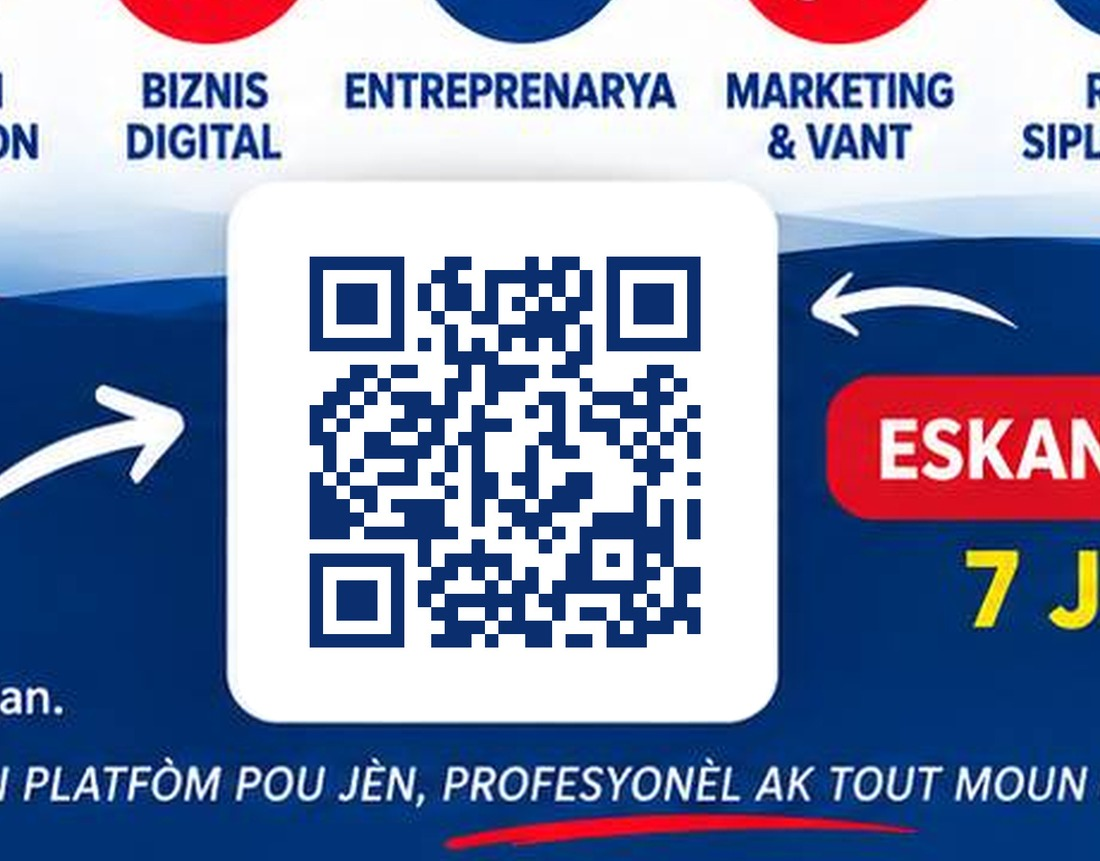
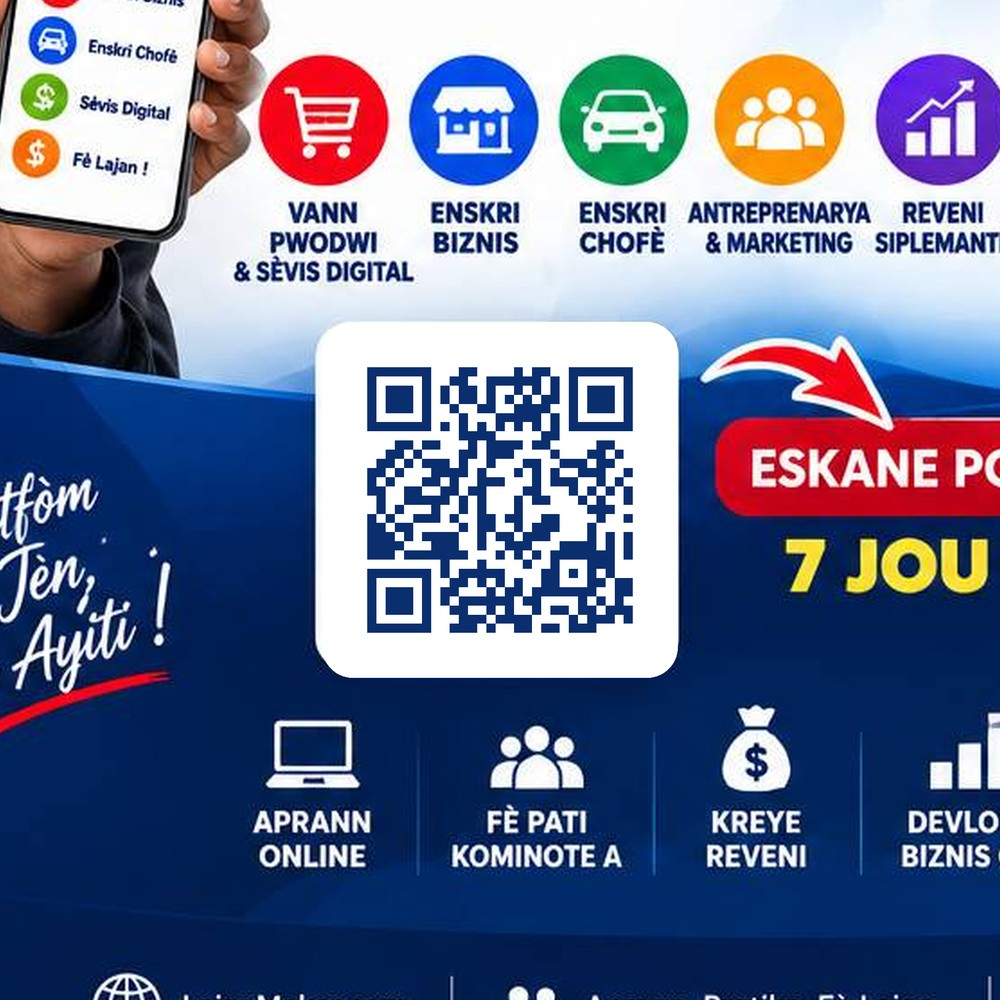
Poster: the corrected artwork (the one with the phones), plus /afich.jpg
He sent the wrong file first. This is the 1536x1024 3:2 version. Its QR is
decorative too - confirmed it fails to decode at 1x/2x/4x/8x with both pyzbar
and OpenCV - so the real one goes in the same panel, measured at (569,580)-
(770,778) filling 0.85.

Also served at the site root as /afich.jpg: a short address he can dictate to
the print shop over the phone, and one he can long-press to save. He reported
he could not download from the dl page and the shop shuts within the hour.

Removes the superseded 40x20 file so the wrong artwork cannot be printed.

diff --git a/dl/lajanmaker-poster/index.html b/dl/lajanmaker-poster/index.html
@@ -76,8 +76,8 @@ footer{text-align:center;color:var(--text-muted);font-size:.82rem;padding-top:14
     <p>The QR code on your original artwork was decorative — it does not scan.
        This one does. It has been tested with two different scanners.</p>
     <img src="preview-full.jpg" alt="The finished poster">
-    <a class="btn btn-main" href="LajanMaker-Academy-poster-40x20in-150dpi.jpg">Download the poster</a>
-    <p class="meta">JPEG &middot; 6000 &times; 3000 pixels &middot; 150 DPI &middot; 3.2 MB</p>
+    <a class="btn btn-main" href="LajanMaker-Academy-poster-40x26in-150dpi.jpg">Download the poster</a>
+    <p class="meta">JPEG &middot; 6000 &times; 4000 pixels &middot; 150 DPI &middot; 3.4 MB</p>
   </div>
 
   <div class="card">
@@ -86,27 +86,27 @@ footer{text-align:center;color:var(--text-muted);font-size:.82rem;padding-top:14
        &ldquo;ESKANE POU K&Ograve;MANSE&rdquo; still point at it.</p>
     <img src="preview-qr.jpg" alt="Close-up of the new QR code">
     <table>
-      <tr><td>Printed size</td><td>5.1 inches square</td></tr>
+      <tr><td>Printed size</td><td>5.2 inches square</td></tr>
       <tr><td>Scans from</td><td>about 4 feet away</td></tr>
       <tr><td>It opens</td><td>LajanMaker.com</td></tr>
     </table>
   </div>
 
   <div class="warn">
-    <b>One thing about the size you asked for</b>
-    <p>You asked for 30&Prime; &times; 40&Prime;. That is a tall shape, and this
-       artwork is a wide one — twice as wide as it is tall. It cannot fill a
-       30&times;40 sheet without stretching the faces or cutting off the sides.</p>
-    <p style="margin-top:8px">So this file is <b>40&Prime; wide &times; 20&Prime; tall</b>,
-       which is the artwork's own shape at the same 40 inch length. If you want a
-       tall 30&times;40 for the wall, tell me and I will lay it out properly —
-       no charge.</p>
+    <b>About the 30&Prime; &times; 40&Prime;</b>
+    <p>Turn the sheet <b>sideways</b> — 40 inches wide, 30 inches tall. This
+       artwork is 3:2, so at 40 inches wide it comes out 26.7 inches tall and
+       very nearly fills it. The printer centres it and trims, or leaves a
+       small even band top and bottom.</p>
+    <p style="margin-top:8px">It cannot fill a <b>tall</b> 30&times;40 — the
+       artwork is a wide shape and the faces would have to be stretched. If you
+       want a tall one, say so and I will lay it out properly, no charge.</p>
   </div>
 
   <div class="card">
     <h2>Give the printer this</h2>
     <ol>
-      <li>Print at <b>40 inches wide by 20 inches tall</b>.</li>
+      <li>Print at <b>40 inches wide by 26.7 inches tall</b> — a 30&times;40 sheet turned sideways.</li>
       <li>Do <b>not</b> crop, stretch or &ldquo;fit to page&rdquo;. The QR must stay square.</li>
       <li>Matte or satin finish. A glossy finish reflects the room lights and
           can stop a phone reading the code.</li>
